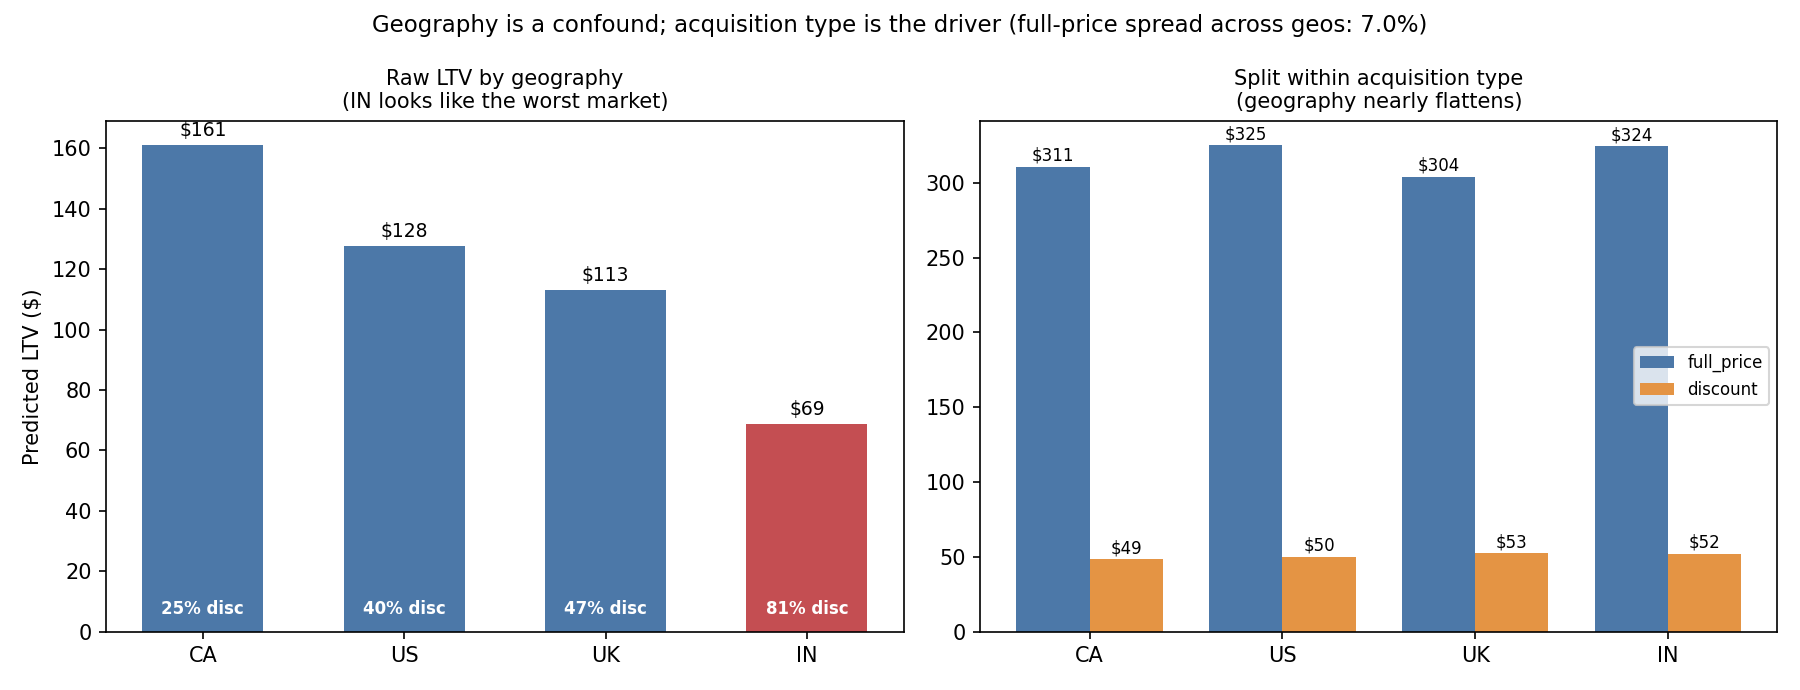
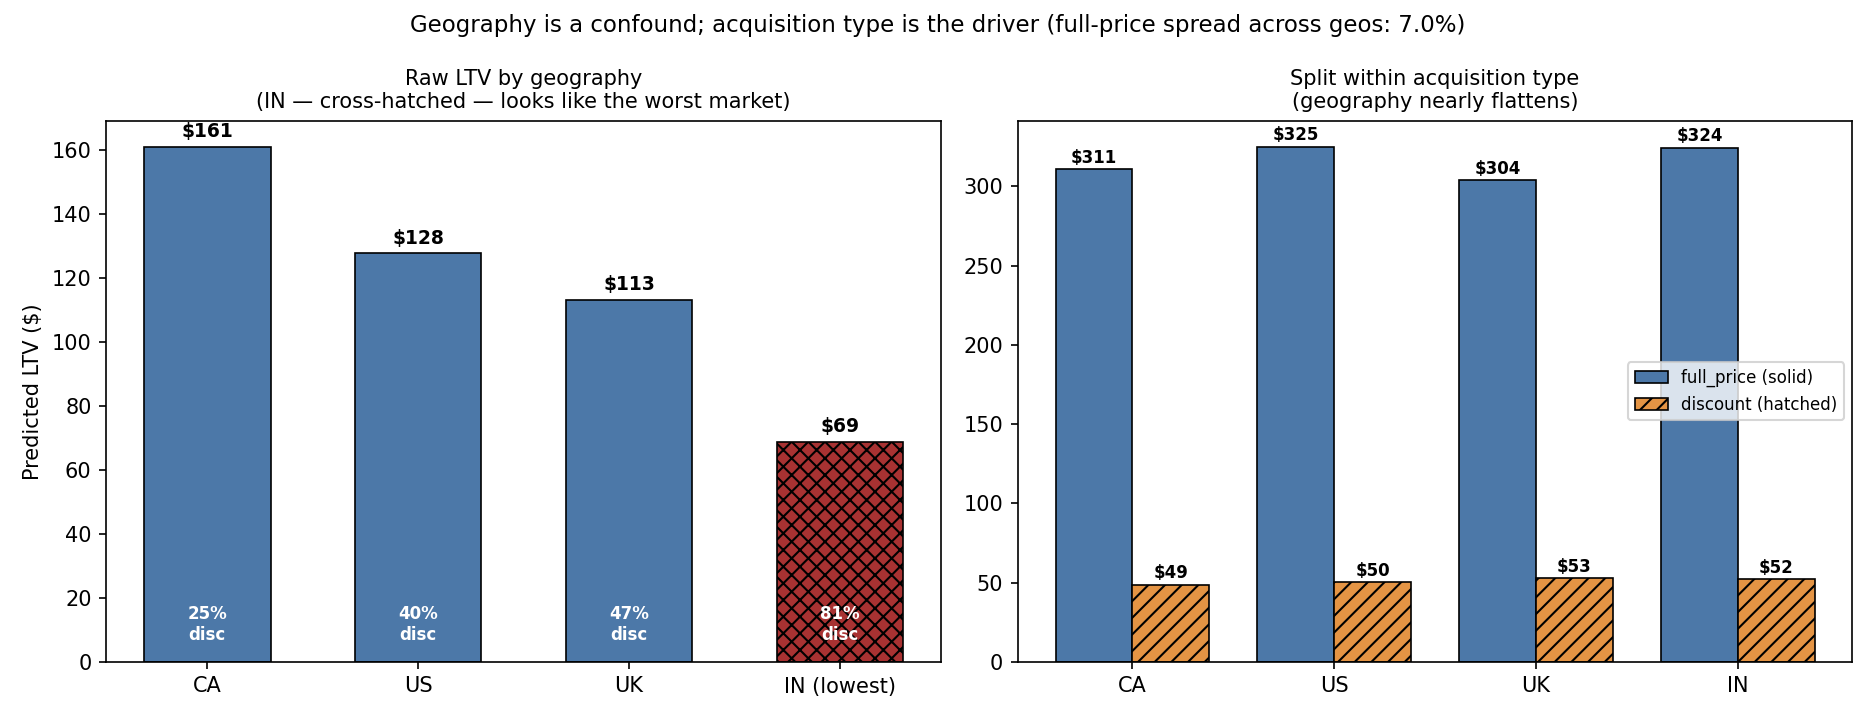
chart accessibility
Accessibility Standards.md requires cues beyond colour ("always use additional
cues - such as text labels, patterns, or icons - alongside color"). Two of the
three data charts failed it: SP9 marked India as the outlier by making its bar
red and nothing else, and SP8 distinguished forecast from actual by line colour
alone. Both are invisible to a colour-blind reader and to anyone printing
greyscale.

SP9's India bar is now cross-hatched and its axis label reads "IN (lowest)";
the discount series is hatched against solid full-price. SP8's forecast line is
now dashed against a solid actual with circle markers, and the band is hatched.
SP7 already encoded by marker shape and needed no change. All three gained black
bar/line edges for contrast.

Each chart reference now carries a prose description of what the chart shows, so
the content survives without the image and whoever builds the classroom page has
alt text ready.

Also regenerates the SP9 band columns from the rule the walkthrough states
(hazard x (1 +/- 2/sqrt(events))); nine full-price cells previously disagreed
with it by $0.50-$3.70.

diff --git a/ltv-to-bidding/exercise/solution/walkthrough.md b/ltv-to-bidding/exercise/solution/walkthrough.md
@@ -1,6 +1,6 @@
 # Solution — Forecast LTV, Compare Cohorts, Build the Value Signal
 
-*Worked solution. LTV modelled from `steep_cohorts.csv` (4,800 customers, six monthly cohorts) with a churn-hazard method. Artifacts: [`ltv-by-cohort.csv`](ltv-by-cohort.csv), [`ltv-by-acqtype.csv`](ltv-by-acqtype.csv), [`ltv-by-geo.csv`](ltv-by-geo.csv), [`bidding-signal-upload.csv`](bidding-signal-upload.csv), [`ltv-driver-chart.png`](ltv-driver-chart.png), and the allocation note [`allocation-note.md`](allocation-note.md).*
+*Worked solution. LTV modelled from `steep_cohorts.csv` (4,800 customers, six monthly cohorts) with a churn-hazard method. Artifacts: [`ltv-by-cohort.csv`](ltv-by-cohort.csv), [`ltv-by-acqtype.csv`](ltv-by-acqtype.csv), [`ltv-by-channel.csv`](ltv-by-channel.csv), [`ltv-by-geo.csv`](ltv-by-geo.csv), [`bidding-signal-upload.csv`](bidding-signal-upload.csv), [`ltv-driver-chart.png`](ltv-driver-chart.png), and the allocation note [`allocation-note.md`](allocation-note.md).*
 
 ## Method (stated assumptions)
 
@@ -15,13 +15,15 @@ Two assumptions to state out loud, because the numbers move if you disagree:
 - **Gross margin = 65%.** Steep ships tea, so a subscription dollar is not a margin dollar. Skip this and you are computing *revenue*-to-CAC and labelling it LTV:CAC, which flatters every ratio by ~1.5×.
 - **No discount rate.** Lifetimes here top out near 32 months; discounting to present value moves the numbers a few percent and changes no ranking. Add it if you extend the horizon.
 
-**Confidence** is the 95% interval on each hazard (standard error ≈ √events ÷ customer-months), inverted into an LTV band.
+**Every LTV below ships with a range, and the range is driven by one thing: how many churn events sit behind it.** A hazard counted from 1,834 churn events is a firmer number than one counted from 48. The rule, in one line: **relative precision on a hazard ≈ 1 ÷ √events, so recompute LTV at hazard × (1 ± 2 ÷ √events)** — few events, wide range. Every `_lo` / `_hi` column in the artifacts is that.
+
+Call it **directional**, not a confidence interval. It prices sampling noise in the churn count and nothing else — not the constant-hazard choice, not the margin assumption, and not the extrapolation flagged in §7.
 
 ## 1. LTV per cohort — and why the obvious version is still wrong
 
 [`ltv-by-cohort.csv`](ltv-by-cohort.csv). Three columns, three different answers to the same question:
 
-| Cohort | n | Months obs. | Avg revenue-to-date | Blended LTV | 95% band | full_price LTV |
+| Cohort | n | Months obs. | Avg revenue-to-date | Blended LTV | LTV range | full_price LTV |
 |---|---|---|---|---|---|---|
 | 2025-01 | 800 | 10 | $103.98 | ~$122 | $111 – $134 | ~$339 |
 | 2025-02 | 800 | 9 | $94.61 | ~$111 | $101 – $122 | ~$296 |
@@ -36,54 +38,76 @@ Two assumptions to state out loud, because the numbers move if you disagree:
 
 **Blended hazard (better, still biased).** Modelling churn removes most of it, but a downward tilt survives (r = **−0.59**). This one is subtle and worth understanding: your cohort is a *mixture* of a ~3%/mo segment and an ~18%/mo segment. Pool them into one hazard and a short observation window is dominated by the fast-churning half — you are watching the months when discount customers are still leaving. A long window also captures the later stretch where only full-price customers remain. The same mixture therefore reads as a **higher** hazard when you observe it briefly. Young cohorts still look worse than they are.
 
-**Within acquisition type (right).** Compute the hazard inside a homogeneous segment and the trend disappears: full-price LTV by cohort has r = **+0.11** — no relationship with age at all. The remaining wobble ($296–$339) is sampling noise, not signal.
+**Within acquisition type (right).** Compute the hazard inside a homogeneous segment and the trend disappears: full-price LTV by cohort has r = **+0.11** — no relationship with age at all. The remaining wobble ($296–$339, ±7%) is sampling noise, not signal — each of those cohort estimates rests on only 56–106 full-price churn events, i.e. a range of ±19–26% on its own. The wobble is about a third the width of the uncertainty around it.
 
-So the fix is the same as everywhere else in this exercise: **don't average across a mix.** The band width is the other half of the answer — carry it, and don't read a story into cohort-to-cohort movement that sits inside it.
+So the fix is the same as everywhere else in this exercise: **don't average across a mix.** The range is the other half of the answer — carry it, and don't read a story into cohort-to-cohort movement that sits inside it. Every cohort here rests on 306–442 churn events, so every range is ±9–11%; the $98–$122 spread across cohorts is barely wider than one cohort's own range.
 
 ## 2. LTV by acquisition type — the real driver
 
-| Segment | n | Monthly churn | Exp. lifetime | LTV | CAC | LTV:CAC |
-|---|---|---|---|---|---|---|
-| **full_price** | 2,425 | 3.1%/mo | ~32.3 mo | **~$316** | ~$22.22 | **~14.2×** |
-| **discount** | 2,375 | 18.2%/mo | ~5.5 mo | **~$52** | ~$19.43 | **~2.7×** |
+| Segment | n | Churn events | Monthly churn | Exp. lifetime | LTV | LTV range | CAC | LTV:CAC |
+|---|---|---|---|---|---|---|---|---|
+| **full_price** | 2,425 | 507 | 3.1%/mo | ~32.3 mo | **~$316** | $291 – $346 | ~$22.22 | **~14.2×** |
+| **discount** | 2,375 | 1,834 | 18.2%/mo | ~5.5 mo | **~$52** | $49 – $54 | ~$19.43 | **~2.7×** |
 
 Full-price customers are worth **~6.1× more**. Note the CACs are nearly identical (~$22 vs ~$19) — **you pay about the same for both.** The entire difference is in what you get. Discount customers churn six times faster and land under a 3× LTV:CAC bar, so they barely clear their own acquisition cost once margin is applied.
+
+The ranges do not come close to touching, so this is the one finding you can state without hedging. They are also asymmetric in an instructive way: discount LTV is pinned to ±5% by 1,834 churn events, while full_price, built on 507 because those customers mostly haven't churned yet, carries ±9%. **The better segment is always the less certain one.** That is censoring, not sloppiness.
 
 ## 3. The geography trap (a confound)
 
 Raw LTV by geo *looks* like geography decides value:
 
-| geo | n | LTV (raw) | % discount-acquired |
-|---|---|---|---|
-| CA | 765 | ~$161 | 25% |
-| US | 1,625 | ~$128 | 40% |
-| UK | 1,209 | ~$113 | 47% |
-| **IN** | 1,201 | **~$69** | **81%** |
+| geo | n | LTV (raw) | LTV range | % discount-acquired |
+|---|---|---|---|---|
+| CA | 765 | ~$161 | $144 – $182 | 25% |
+| US | 1,625 | ~$128 | $119 – $138 | 40% |
+| UK | 1,209 | ~$113 | $105 – $123 | 47% |
+| **IN** | 1,201 | **~$69** | $64 – $74 | **81%** |
 
-IN looks like the worst market by a factor of 2.3. Split **within** acquisition type and geography all but disappears:
+IN's range clears every other geo's by a wide margin, and CA's sits above all three — so the raw gap is real, it just isn't *about geography*. (UK and US do overlap, which is your first hint the ordering is softer than the point estimates look.) Split **within** acquisition type and it all but disappears:
 
-| geo | discount LTV | full_price LTV |
-|---|---|---|
-| CA | ~$49 | ~$311 |
-| IN | ~$52 | ~$325 |
-| UK | ~$53 | ~$304 |
-| US | ~$50 | ~$325 |
+| geo | discount LTV | range | full_price LTV | range | full_price churn events |
+|---|---|---|---|---|---|
+| CA | ~$49 | $42 – $58 | ~$311 | $264 – $379 | 120 |
+| IN | ~$52 | $49 – $56 | ~$325 | **$253 – $453** | **48** |
+| UK | ~$53 | $48 – $58 | ~$304 | $260 – $365 | 138 |
+| US | ~$50 | $46 – $55 | ~$325 | $286 – $377 | 201 |
 
-An IN full-price customer (~$325) is worth *more* than a Canadian one (~$311). The spread across all four geos is **7.0%**, inside the confidence bands. **IN only looks low-value because 81% of its customers were acquired on discount, vs. 25% in CA.** Geography is a confound; **acquisition type is the driver.** See [`ltv-driver-chart.png`](ltv-driver-chart.png).
+An IN full-price customer (~$325) is worth *more* than a Canadian one (~$311). The spread across all four geos is **7.0% within full_price and 8.2% within discount** — and every one of those eight ranges overlaps every other in its column, so there is no evidence any geo differs from any other once you hold acquisition type fixed. **IN only looks low-value because 81% of its customers were acquired on discount, vs. 25% in CA.** Geography is a confound; **acquisition type is the driver.** See [`ltv-driver-chart.png`](ltv-driver-chart.png).
+
+*What the chart shows: two panels side by side. Left, raw LTV by geography — CA $161, US $128, UK $113, and IN lowest at $69, each bar labelled with its discount share, IN cross-hatched to mark it as the outlier. Right, the same data split by acquisition type — full-price bars solid, discount bars hatched — where all four geographies land within 7% of each other on full-price customers and within 8% on discount. The visual point is that the dramatic left-hand gap tracks the discount share, not the geography.*
+
+Say the thin cell out loud: **IN's full-price estimate rests on 48 churn events**, the fewest in the table, so its range runs $253–$453. It is enough to kill the "IN is a bad market" story — the range sits far above IN's raw $69 either way — but not enough to rank IN against US. Report it as "indistinguishable," not as a winner.
 
 **Income is a second, weaker story — and only partly a confound.** Discount accounts for 68% of low-band customers vs. 26% of high-band, so most of the raw income gap is the same mix effect. A residual does survive inside full_price (~$247 low vs. ~$344 mid and ~$342 high), and part of it is real: higher bands pay a higher fee. Note the fee is *not* determined by the band — all three fees appear in all three bands — so you can separate price from income here rather than having to assume.
 
 ## 4. LTV vs CPA by channel — where cheap traffic is expensive
 
-| Channel | n | CPA | % discount | Blended LTV | LTV:CAC |
-|---|---|---|---|---|---|
-| referral | 1,522 | **~$11.12** | 69% | **~$81** | ~7.2× |
-| search | 1,583 | ~$22.04 | 30% | ~$153 | ~6.9× |
-| paid_social | 1,695 | ~$28.45 | 50% | ~$106 | ~3.7× |
+[`ltv-by-channel.csv`](ltv-by-channel.csv), sorted cheapest CPA first:
 
-**Referral is the cheapest traffic and the least valuable** — the case the brief asks you to find. It is not that referral attracts worse people: its full-price customers are worth the same as everyone's. It is that **69% of referral volume arrives on a discount**, because the referral offer *is* a discount. Search costs twice as much per customer and returns a blended LTV nearly 90% higher on a 30% discount mix.
+| Channel | n | % discount | Churn events | CPA | Blended LTV | LTV range | LTV:CAC |
+|---|---|---|---|---|---|---|---|
+| referral | 1,522 | 69% | 903 | **~$11.12** | **~$81** | $76 – $86 | **~7.2×** |
+| search | 1,583 | 30% | 602 | ~$22.04 | ~$153 | $142 – $166 | ~6.9× |
+| paid_social | 1,695 | 50% | 836 | ~$28.45 | ~$106 | $100 – $114 | ~3.7× |
+
+**Referral is the cheapest traffic and the least valuable** — the case the brief asks you to find. Rank on CPA alone and you buy the lowest-LTV customers in the account, with the ranges nowhere near overlapping ($76–$86 against search's $142–$166). It is not that referral attracts worse people: its full-price customers are worth the same as everyone's. It is that **69% of referral volume arrives on a discount**, because the referral offer *is* a discount. Search costs **2.0× more per customer and returns 1.9× the LTV** on a 30% discount mix — that is what a justified high CPA looks like.
+
+**Now the part that matters most, because it is where this analysis can fool you: the answer changes with the metric.**
+
+| Optimize on | Winner | Why |
+|---|---|---|
+| Lowest CPA | referral | cheapest clicks — and the lowest-value customers |
+| Highest LTV | **search** | 1.9× referral's value for 2.0× the cost |
+| Highest LTV:CAC | **referral** | 7.2× vs 6.9× — a small denominator flatters the ratio |
+
+Referral is *both* the trap on raw LTV and the leader on efficiency, and both readings are arithmetically correct. The ratio is the right lens when your budget is fixed and you want the most value per dollar; **raw LTV is the right lens when you have budget to deploy and want the most value, full stop** — and growth budgets are usually the second case. Note also how thin referral's ratio win is (7.2× vs 6.9×, ~4%) against how thick its LTV loss is (~47% below search): the efficiency edge is inside the noise, the value gap is not. So **pick and state your metric before you rank channels**, or someone will hand you the ranking that suits their argument.
+
+paid_social loses on both — dearest CPA *and* a 3.7× ratio, the only channel near the 3× floor. That one needs no tie-breaking.
 
 **High CPA on search is justified; low CPA on referral is not a bargain.** Same lesson as the geography trap, one level up: the channel isn't the problem, the **mix it delivers** is.
+
+*(All LTV and ratio figures here carry the 65% margin. On gross revenue the ratios read 11.2× / 10.7× / 5.7× — bigger numbers, identical ranking, which is exactly why you state the margin instead of quietly dropping it.)*
 
 ## 5. The value signal (for the platform)
 
@@ -104,9 +128,14 @@ An IN full-price customer (~$325) is worth *more* than a Canadian one (~$311). T
 - **mid** — 3 ≤ LTV:CAC < 6 · healthy, hold and optimise
 - **low** — LTV:CAC < 3 · below the payback bar, bid down
 
+Two things to be explicit about, because the file alone won't tell a colleague either:
+
+- **The cut is on LTV:CAC, not on `predicted_ltv`.** That is why `discount | referral` and `discount | search` both carry $51.50 and land in different tiers — same modelled lifetime, half the acquisition cost. If you tier on predicted value alone, every discount segment gets the same label and the signal loses the only thing that separates them.
+- **The cuts are conventions, not findings.** 3× is the common payback bar once margin is in; 6× is simply double it. Move the cuts and the labels move — so publish the rule beside the file.
+
 **Why LTV is pooled within acquisition type.** Split the hazard all the way down to segment and the cells stop being informative. Within full_price:
 
-| | n | events | hazard | 95% CI |
+| | n | events | hazard | hazard range |
 |---|---|---|---|---|
 | **pooled** | 2,425 | 507 | 3.09% | 2.82 – 3.36% |
 | \| referral | 467 | 92 | 2.92% | 2.32 – 3.52% |
@@ -121,8 +150,10 @@ All three segment intervals contain the pooled estimate. There is **no evidence 
 
 ## 7. Limits
 
-- **Young cohorts carry the most forecast risk** — least observed tenure, widest bands, and the mixture bias in §1 works against them specifically.
-- **Segment hazards are underpowered** below roughly 500 customers; hence the pooling in §5. Re-estimate per segment once volume supports it.
+- **You are projecting years from months.** The longest tenure anywhere in this file is **10 months** (the oldest cohort; the newest reaches 5), yet full_price's expected lifetime comes out at **32.3 months**. At a 3.09% hazard only 8.7 of those 32.4 expected months fall inside the observation window, so **~73% of full_price LTV is extrapolation past the last data point** — no customer in the dataset has lived long enough to confirm month 11, let alone month 32. (Discount LTV is the opposite: at 18% churn, 87% of its modelled value lands inside 10 months, which is why $51.50 is the sturdier of the two numbers despite being the smaller one.) Constant hazard is doing all the work out there, and nothing in the range above prices that. It is the single largest source of error in this analysis, and it is not a statistical problem you can shrink with more rows — only more *time* fixes it. If the number has to support a spend decision now, sanity-check it against a bounded horizon (say a 12-month LTV) as well, where the projection is a stretch rather than a leap.
+- **Young cohorts carry the most forecast risk** — least observed tenure, widest ranges, and the mixture bias in §1 works against them specifically.
+- **Segment hazards are underpowered** below roughly 500 customers; hence the pooling in §5. The thinnest cell reported is IN full_price at **48 churn events** ($253–$453) — quoted to kill a bad story, not to rank a market. Re-estimate per segment once volume supports it.
+- **The ranges cover sampling noise only.** They answer "how many churn events is this hazard built on," not "is constant hazard the right model" or "is 65% the right margin." Both of those move the numbers further than the ranges do.
 - Geometric decay imposes a **constant** monthly hazard. Real churn is usually front-loaded, which would lower early-life LTV and raise it later.
 - Validate against **held-out cohorts over time** — its own discipline.
 - This is cohort value analysis, not audience/persona research.
@@ -134,5 +165,7 @@ All three segment intervals contain the pooled estimate. There is **no evidence 
 - Reporting **revenue:CAC as LTV:CAC** — skipping the margin assumption inflates every ratio ~1.5×.
 - Stopping at **"cut India"** — the headline read, and wrong; it's an acquisition-mix artifact.
 - Stopping at **"shift budget to referral"** — cheapest CPA, worst blended value; the same mistake pointed the other way.
-- **Point estimates with no bands**, so the youngest cohort looks as certain as the oldest.
+- **Ranking channels without naming the metric** — raw LTV crowns search, LTV:CAC crowns referral, and both are correct arithmetic. Pick the lens that matches the decision (fixed budget → ratio; budget to deploy → value) and say which you used.
+- **Point estimates with no range**, so the youngest cohort and the 48-event cell look as certain as the oldest and largest.
+- **Quoting the range as if it covered everything** — it covers churn-event sampling only, not the 32-months-from-10-months extrapolation, which is bigger.
 - Shipping only the signal file **or** only the allocation note — the deliverable is both.

diff --git a/validate-forecast/exercise/solution/walkthrough.md b/validate-forecast/exercise/solution/walkthrough.md
@@ -1,6 +1,6 @@
 # Solution — Can We Rely On It, and How Do We Tune It?
 
-*Worked solution. Numbers computed by comparing the provided sample forecast against the held-out actuals. Artifacts: [`calibration-comparison.csv`](calibration-comparison.csv) and [`calibration-chart.png`](calibration-chart.png).*
+*Worked solution. Numbers computed by comparing the provided sample forecast against the held-out actuals. Artifacts: [`calibration-comparison.csv`](calibration-comparison.csv), [`calibration-chart.png`](calibration-chart.png), and the calibration report [`calibration-report.md`](calibration-report.md).*
 
 ## 1. Forecast vs. actuals
 
@@ -10,6 +10,8 @@
 | **CVR** | 2.993% | 2.992% | +0.0% | ~73% of days |
 
 Day-by-day: [`calibration-comparison.csv`](calibration-comparison.csv). Chart (band vs actuals): [`calibration-chart.png`](calibration-chart.png).
+
+*What the chart shows: daily actuals (solid line, circles) against the forecast mid (dashed) and its band, over the 30-day holdout. Upper panel, CPA — actuals sit above the mid on most days and drift further above as the month runs, with under half inside the band. Lower panel, CVR — actuals scatter either side of the mid and mostly stay inside it. The contrast between the two panels is the finding.*
 
 ## 2. Systematic bias vs. noise
 
@@ -37,7 +39,11 @@ Throw the forecast out and rebuild if any of these break the learned pattern:
 - A **creative refresh** that resets the fatigue curve.
 - A **channel/audience change** that shifts the CPC regime.
 
-## 6. One-line for the CFO
+## 6. The deliverable
+
+[`calibration-report.md`](calibration-report.md) — the calibration report itself, written the way a CFO should receive it. Compare your own report against it. Headline: **conversion is reliable, cost per order is not** — plan on CVR, budget CPA to the top of its band, and tune the fatigue assumption rather than rebuilding.
+
+Its one-line summary for the CFO:
 
 > "Plan next month on this: conversion is reliable, cost-per-order is running about 10% higher than forecast and worsening as our ads age — budget to the top of the range and we'll tighten the model by steepening the fatigue assumption. If we change price or refresh creative, we re-forecast."
 

diff --git a/cpa-cvr-forecast/exercise/solution/walkthrough.md b/cpa-cvr-forecast/exercise/solution/walkthrough.md
@@ -26,6 +26,8 @@ Three patterns to separate:
 
 Full day-by-day projection: [`forecast-cpa-cvr-cpm-30day.csv`](forecast-cpa-cvr-cpm-30day.csv). Chart: [`forecast-chart.png`](forecast-chart.png).
 
+*What the chart shows: the 90 training days with promo week (squares) and the end-of-quarter ramp (triangles) marked as excluded from the fit, then the 30-day forecast mid and its ±1σ band — CPA in the upper panel, CVR in the lower. Every figure in it appears in the table above, so the chart is a second view rather than the only place the numbers live.*
+
 **CPM is carried here for context only** — the exercise asks for CPA and CVR, and CPA is the anchor. It's included because it explains *why* CPA moves (CPM drift feeds CPC feeds CPA), not because it's a required deliverable. A read-out with only CPA and CVR is complete.
 
 ## 4. Assumptions and what drives the spread
